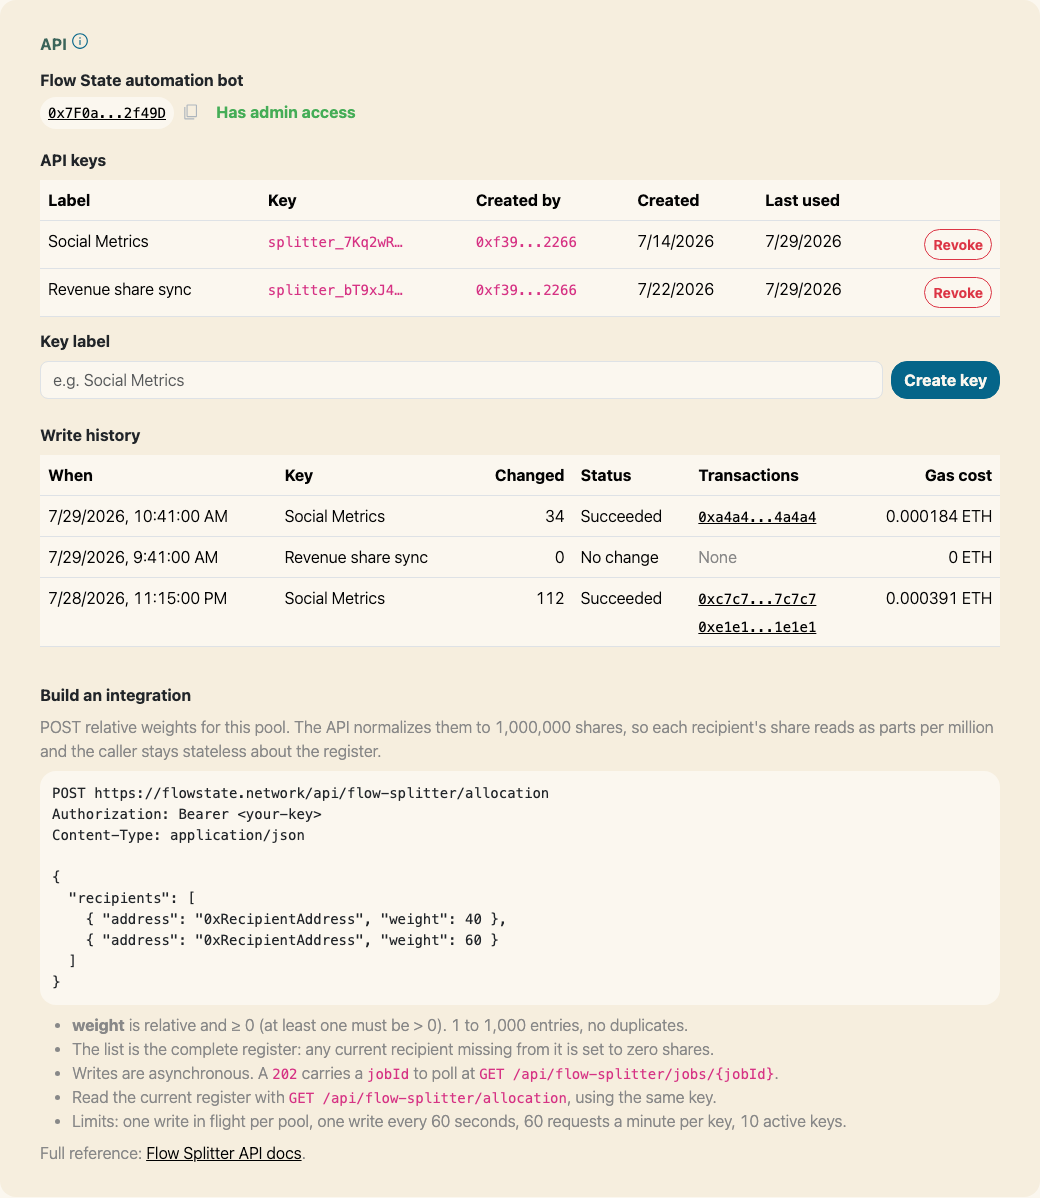
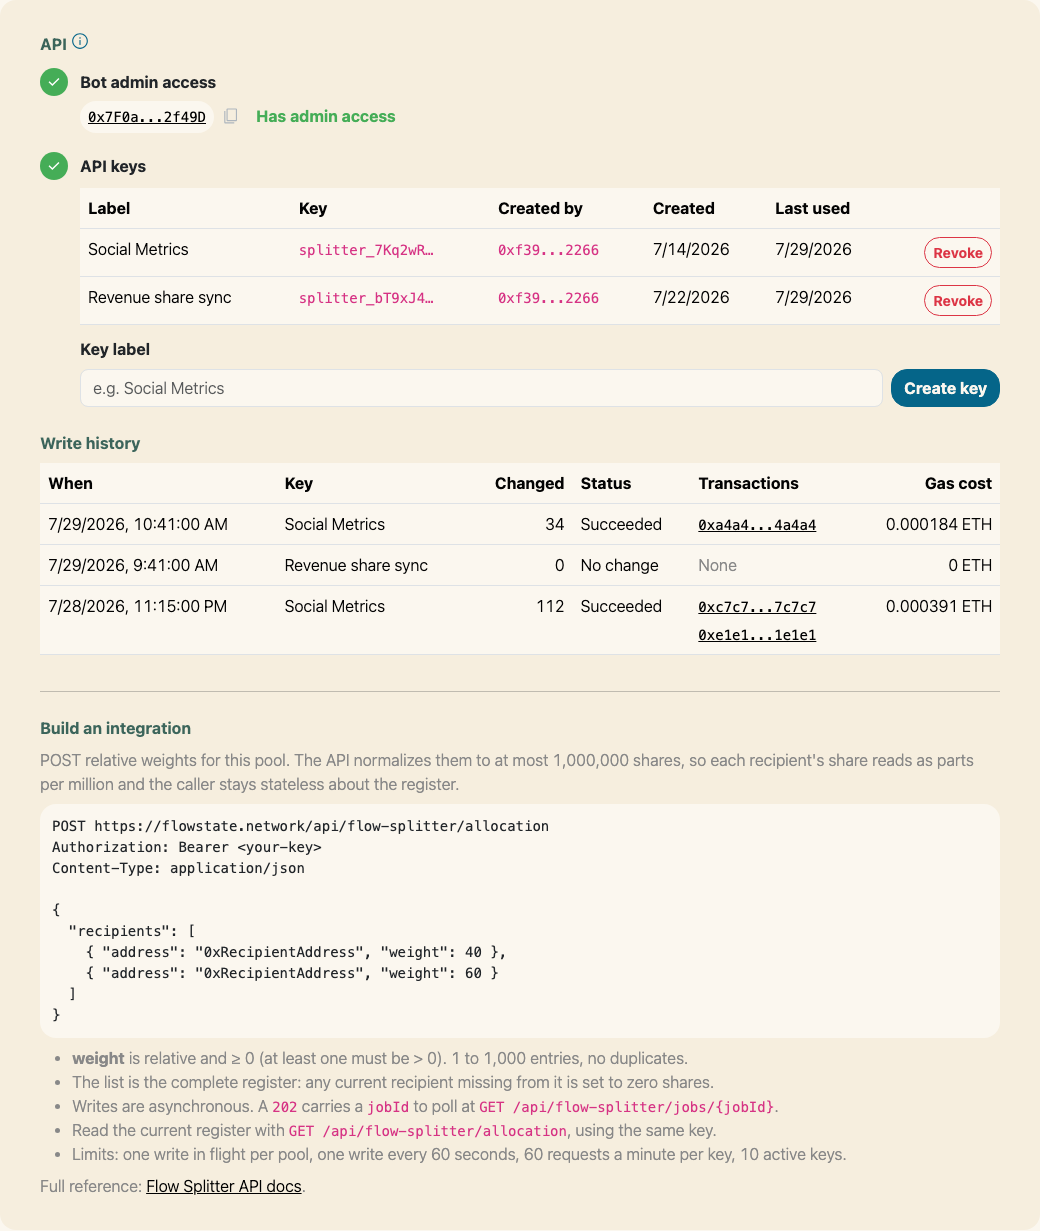
docs: sync from platform@7b32992763f2e0b65eebcb5cff29573a9f674f95

diff --git a/docs/platform/flow-splitters/004-admin.md b/docs/platform/flow-splitters/004-admin.md
@@ -23,11 +23,17 @@ A Flow Splitter is either **Listed** or **Unlisted**. Only Listed Splitters are 
 
 The **API** card at the bottom of the admin page lets an external system (a metrics job, a revenue feed, a cron script) replace the Share Register with no human signing anything. You post relative weights, the platform normalizes them, and the Flow State bot signs the onchain updates.
 
-Everyone sees the endpoint reference and the current Share Register. Both privileged actions need you to hold Admin on the pool, and they ask for different things beyond that: granting the bot is an onchain transaction, so it needs a wallet connected on the pool's chain and nothing more, while managing keys needs **Sign In With Ethereum** from the card.
+Everyone sees the endpoint reference and the current Share Register. The privileged actions need you to hold Admin on the pool, and they ask for different things beyond that: granting the bot is an onchain transaction, so it needs a wallet connected on the pool's chain and nothing more, while unlocking writes and managing keys need **Sign In With Ethereum** from the card.
 
 :::warning[Two kinds of pool can never use the API]
 A pool with **no admins** is permanently immutable, and a pool with **transferable shares** lets recipients move shares between writes, so the register the API believes it owns can be changed by someone else. Both are fixed at launch. The card hides everything but the explanation on those pools, and every API call is refused.
 :::
+
+### Unlock API writes
+
+Programmatic writes are unlocked per pool with a **one-time payment of 10 USDC**, sent on the pool's chain to the Flow State bot's address. The Flow Splitter API is in beta, and the payment unlocks writes for the pool through the beta period; if pricing changes at graduation, beta payments count toward the new model. The card's first step leads with **Pay 10 USDC to unlock** and shows a green check once the payment is counted. Reads, key minting, and job polls work without paying, so an integration can be built and tested end to end first; a write on a locked pool is refused with a clear error rather than accepted and dropped. OP Sepolia pools are not gated, so a testnet integration costs nothing.
+
+Pay from the wallet you signed in with. A payment is claimed for the pool by the wallet that sent it, or by the wallet the USDC left when a contract wallet such as a Safe pays through an executor, which is what stops anyone else claiming yours. If verification is interrupted after the transfer went out, the step swaps the pay button for a refresh icon and says the payment isn't lost; the refresh retries the check, and the payment is found and counted rather than charged twice. If the browser that paid lost track of the transaction, **Already paid? Verify the transaction** takes the transaction hash, or a block explorer link to it, and verifies the same payment by hand.
 
 ### Grant the bot admin
 

diff --git a/docs/developers/010-splitter-api.md b/docs/developers/010-splitter-api.md
@@ -26,6 +26,12 @@ or remove admins, including you. Grant it from the pool's admin page in
 [one transaction](../platform/flow-splitters/004-admin.md#grant-the-bot-admin).
 :::
 
+:::info Writes are unlocked per pool with a **one-time payment of 10 USDC**,
+made by a pool admin from the same API card. Reads, key minting, and job polls
+work without it, so an integration can be built and tested end to end before
+anyone pays; a write on a locked pool returns `402`. OP Sepolia is not gated.
+:::
+
 ## Read the current allocation
 
 ```
@@ -295,6 +301,7 @@ what has to change.
 | `202`  | `{ "success": true, "status": "queued", "jobId": "…" }`                      | Write accepted. Poll the job for progress.                                                                                                                                                |
 | `400`  | `{ "error": "…" }`                                                           | Invalid or duplicate address, an address that is the pool itself or another Superfluid pool, or all weights zero. **Cools the key down.** Malformed JSON also returns `400` but does not. |
 | `401`  | `{ "error": "Unauthorized" }`                                                | Missing, unknown, or revoked key.                                                                                                                                                         |
+| `402`  | `{ "error": "This pool's API is locked…" }`                                  | The pool's one-time unlock has not been paid. A pool admin can pay it from the pool's admin page; nothing about the key or the payload is at fault, and no cooldown is triggered.         |
 | `403`  | `{ "error": "The wallet that created this API key is no longer an admin…" }` | The key's creator lost pool admin, so the key lost the authority it was minted with. A current admin can mint a replacement.                                                              |
 | `404`  | `{ "error": "Job not found" }`                                               | Unknown job, a job belonging to another pool, or one past its seven-day expiry.                                                                                                           |
 | `404`  | `{ "error": "Pool not found" }`                                              | The key's pool is not in the indexer, which normally means the id was never deployed on that chain.                                                                                       |
